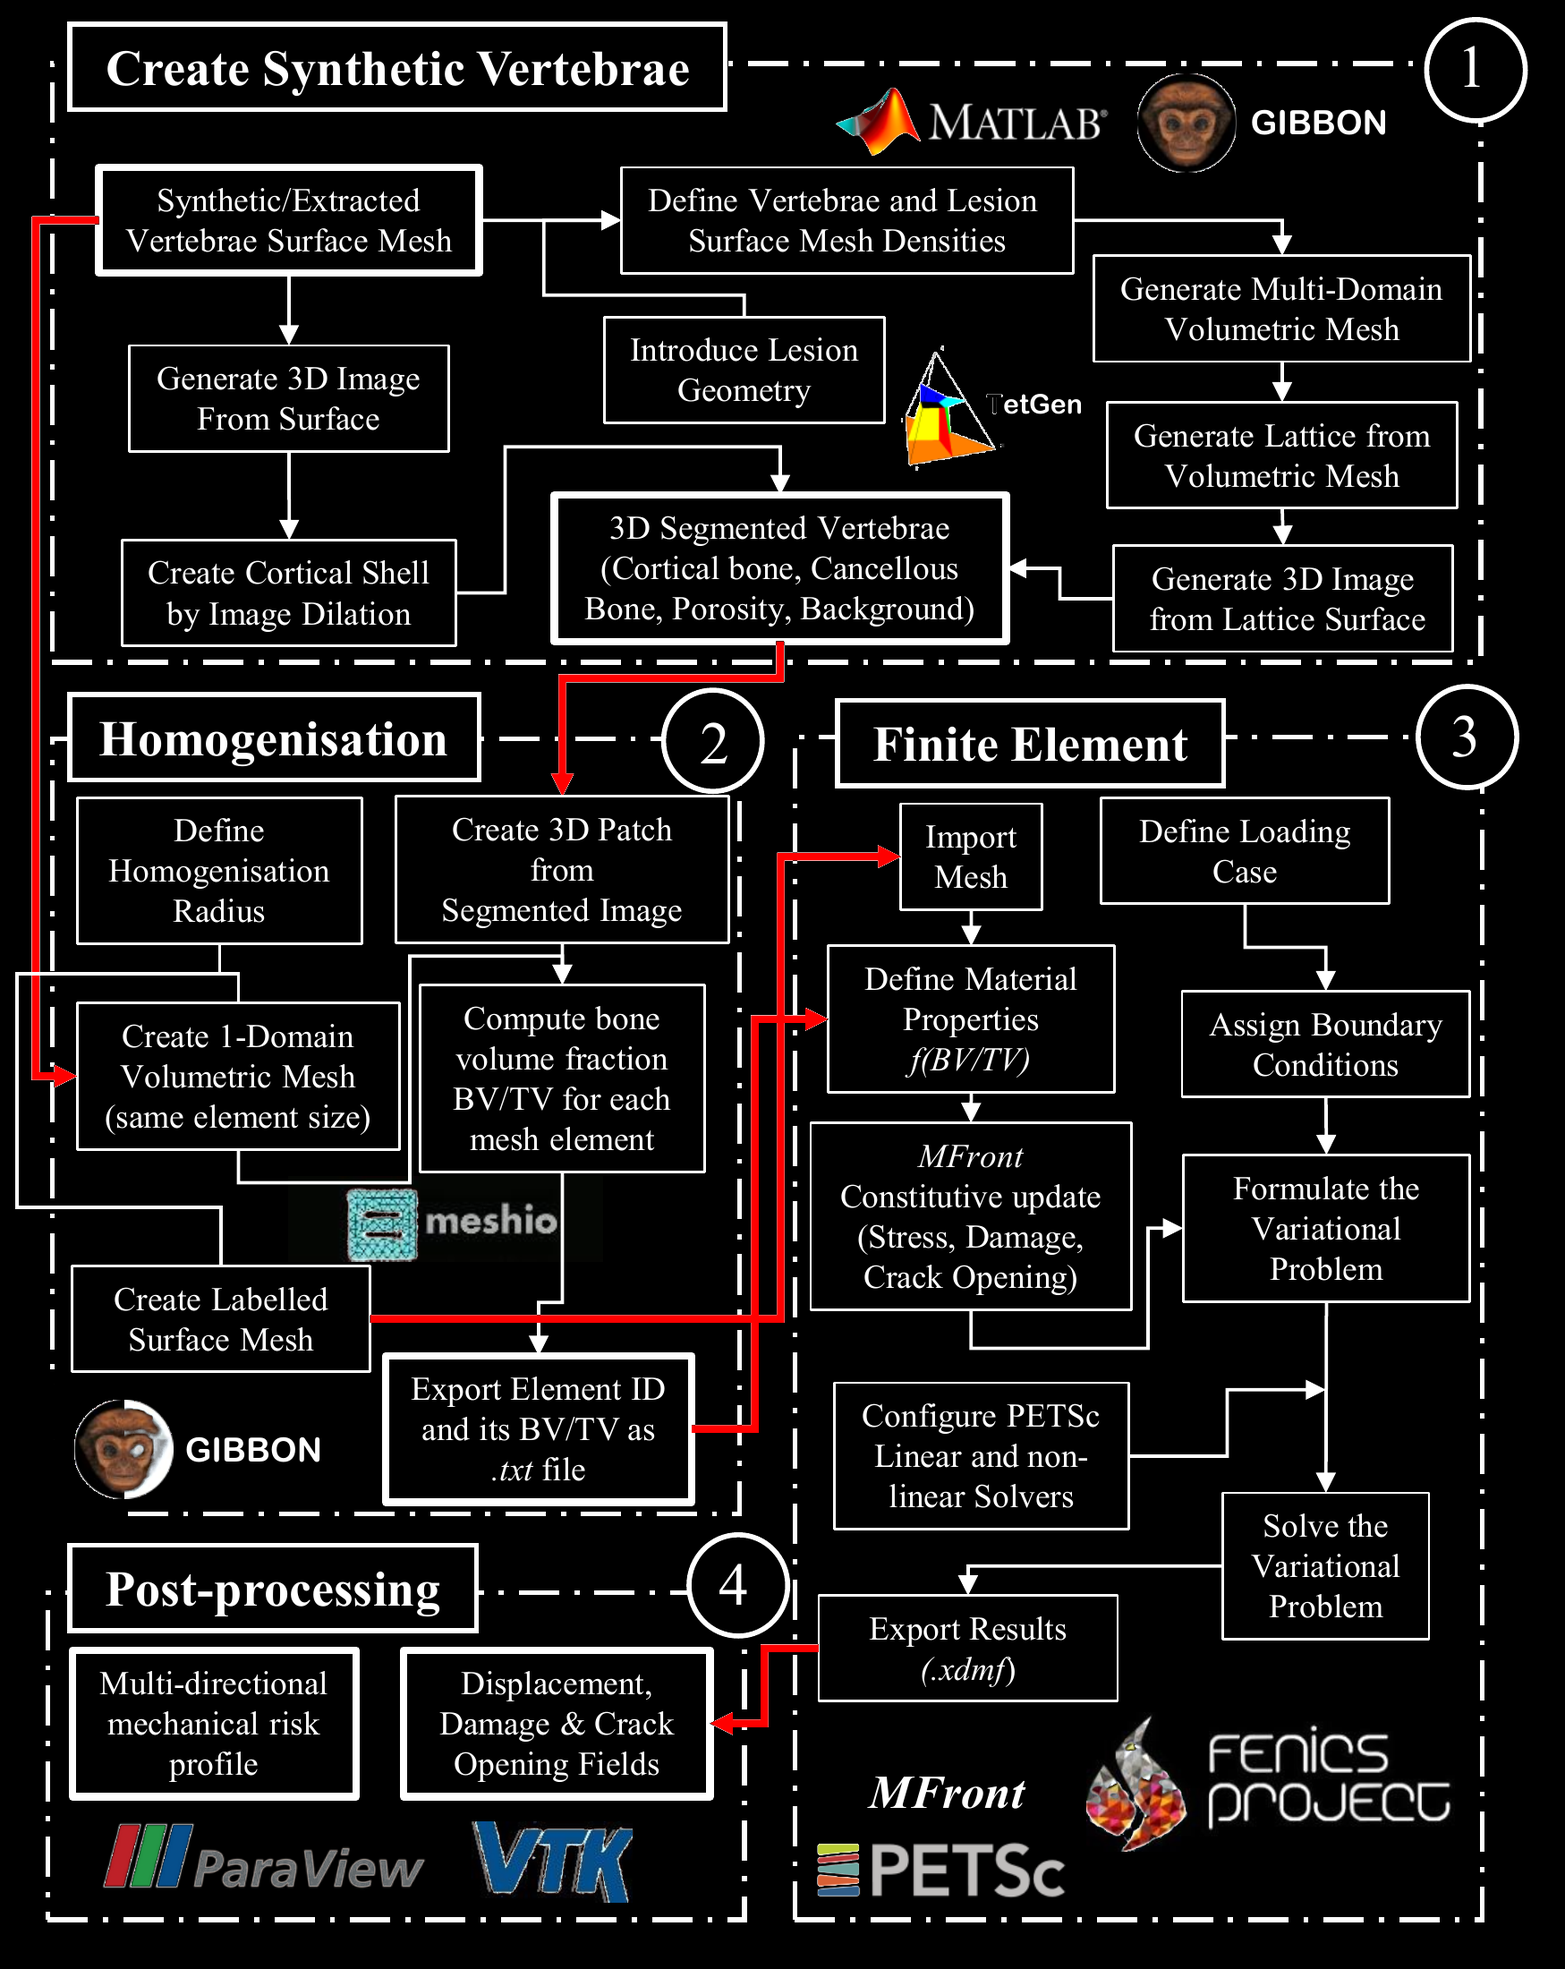
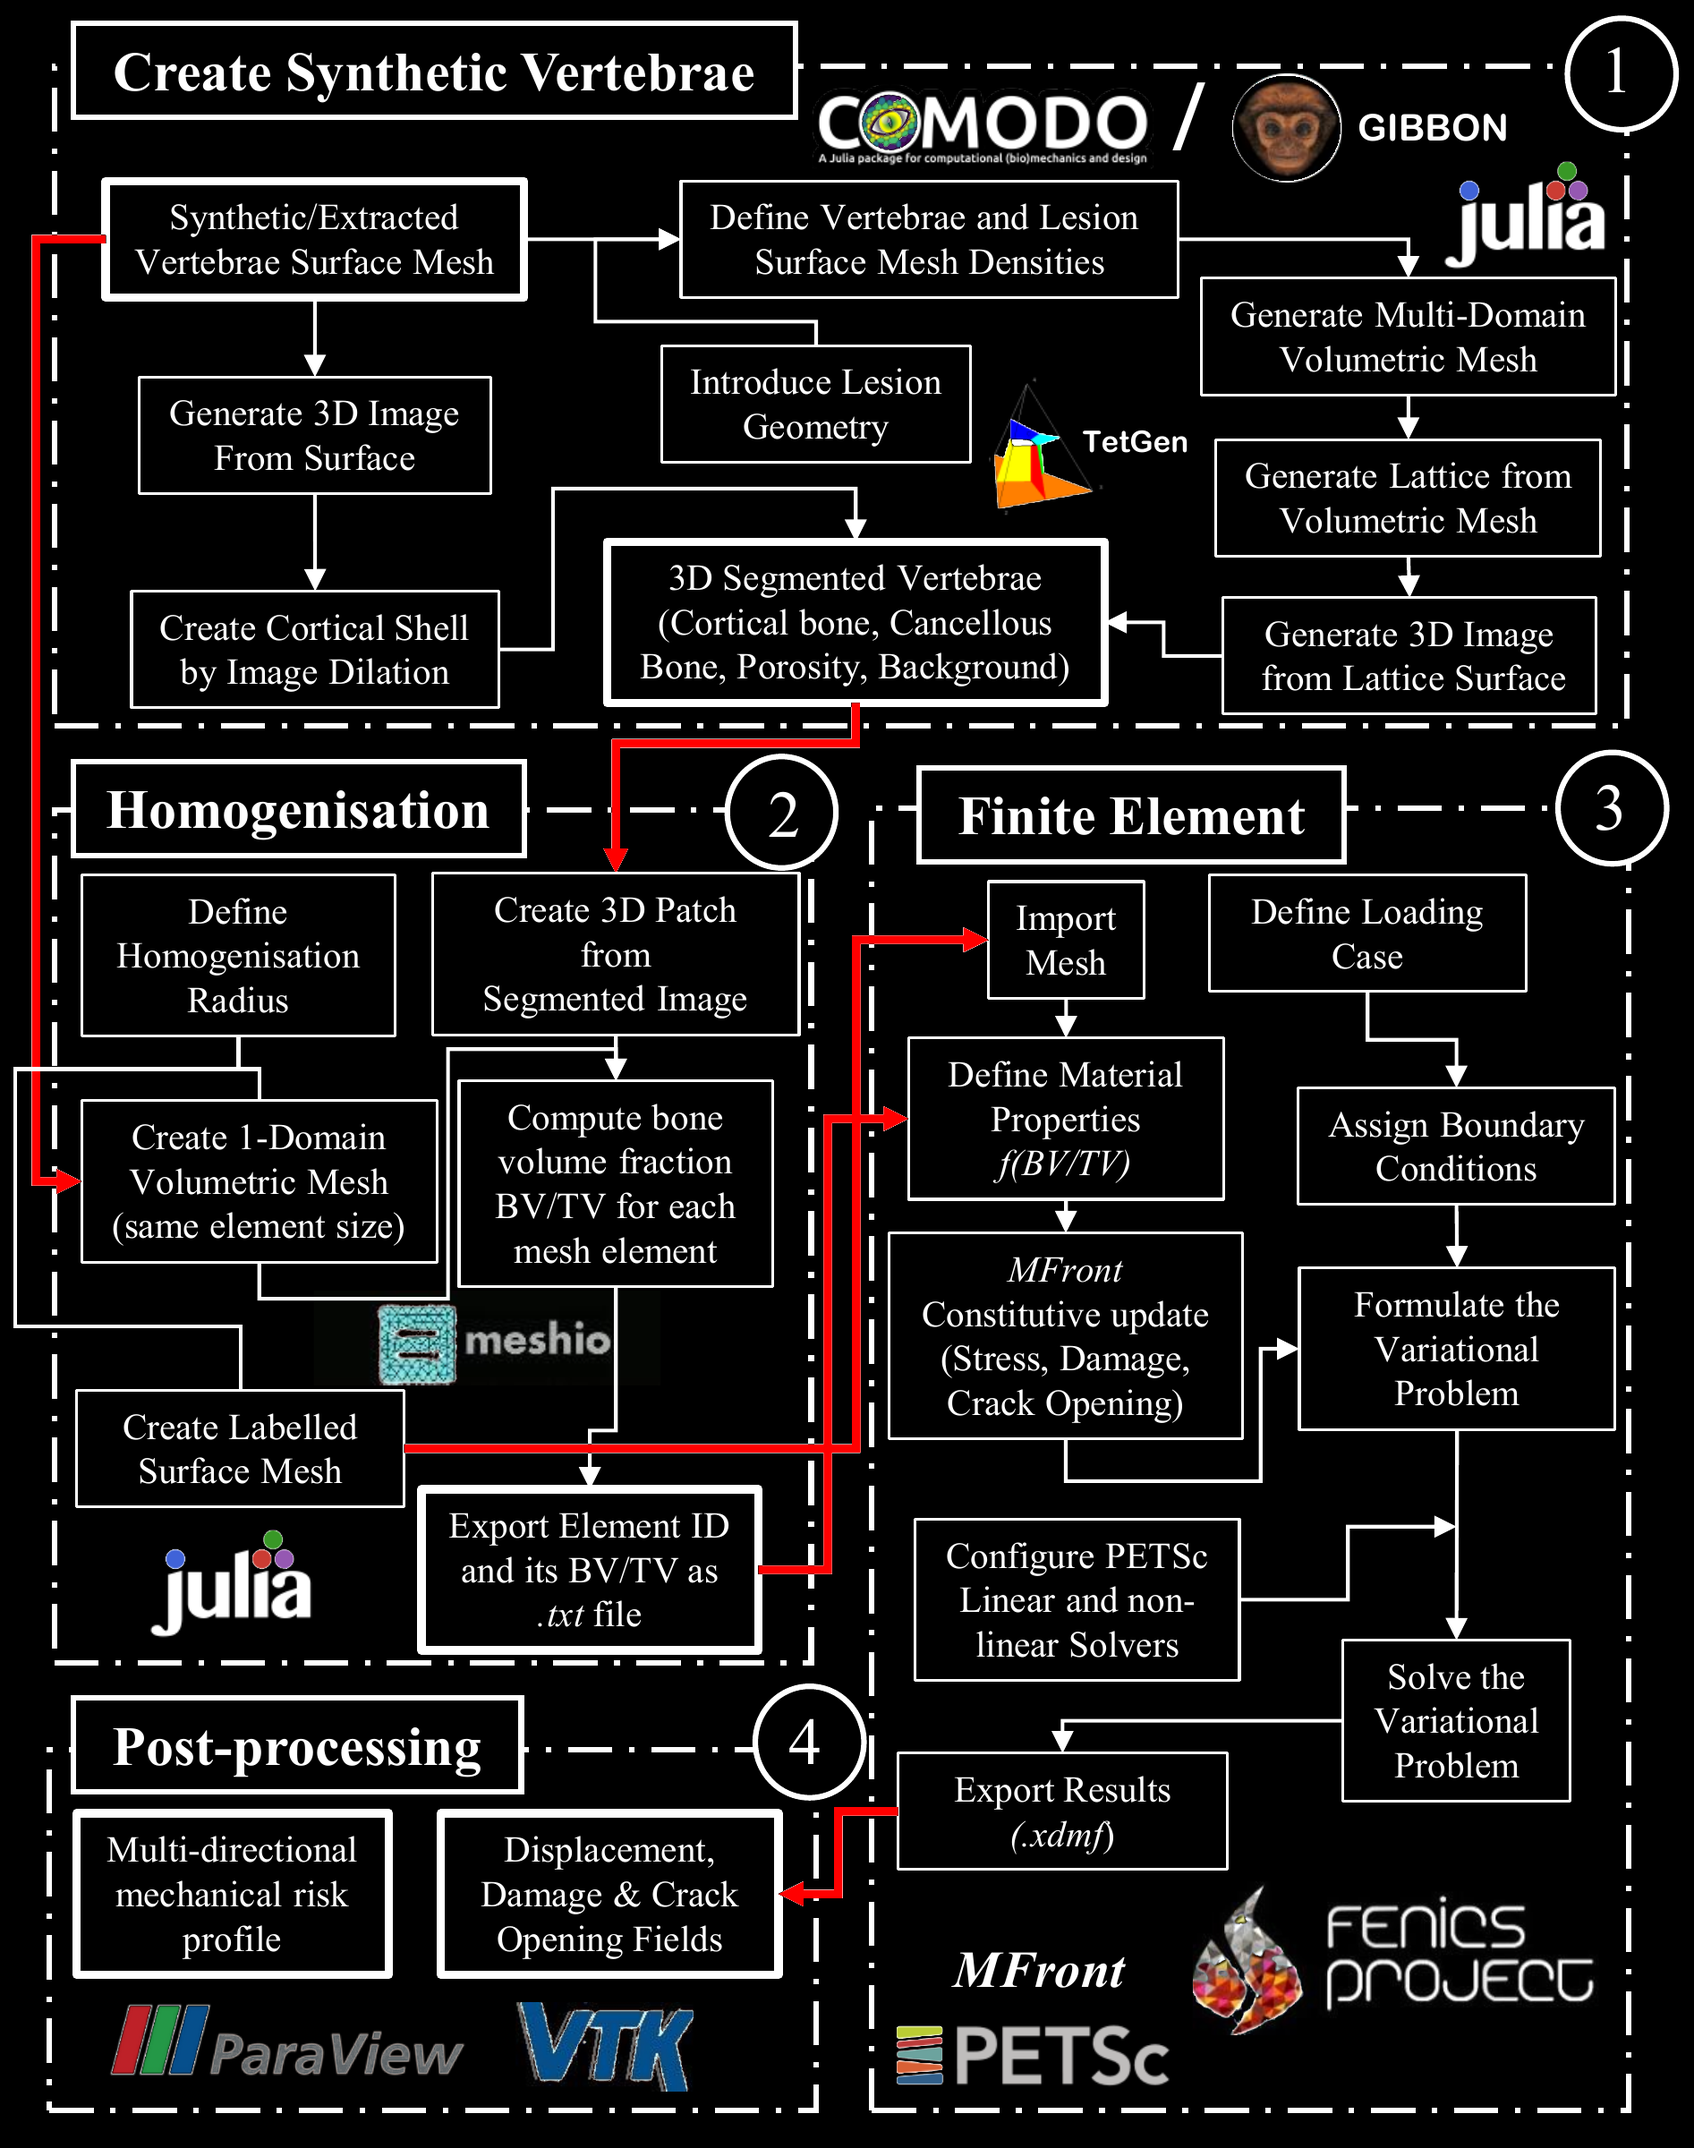
Update interoperability figure for Julia and COMODO

Changed region(s): [[0.0, 0.0, 1.0, 0.9891], [0.8027, 0.9582, 0.9571, 0.9891], [0.0309, 0.0927, 0.0617, 0.1236]]

diff --git a/README.md b/README.md
@@ -57,7 +57,7 @@ The Python stage reads the generated mesh and material fields and runs the nonli
 
 <img src="docs/figures/veritas-workflow.png" alt="VERITAS workflow connecting synthetic vertebra generation, image-informed homogenisation, nonlinear finite element analysis and post-processing" width="600">
 
-The workflow connects synthetic vertebra generation, image-informed homogenisation, nonlinear finite element analysis and post-processing. The diagram is reproduced from the paper draft and depicts the original MATLAB/GIBBON implementation; the geometry and homogenisation stages in this repository use Julia/Comodo.
+The workflow connects synthetic vertebra generation, image-informed homogenisation, nonlinear finite element analysis and post-processing. The diagram shows the Julia/COMODO geometry and homogenisation stages, their connection to FEniCSx/MFront analysis, and the post-processing workflow.
 
 ## Repository architecture
 
